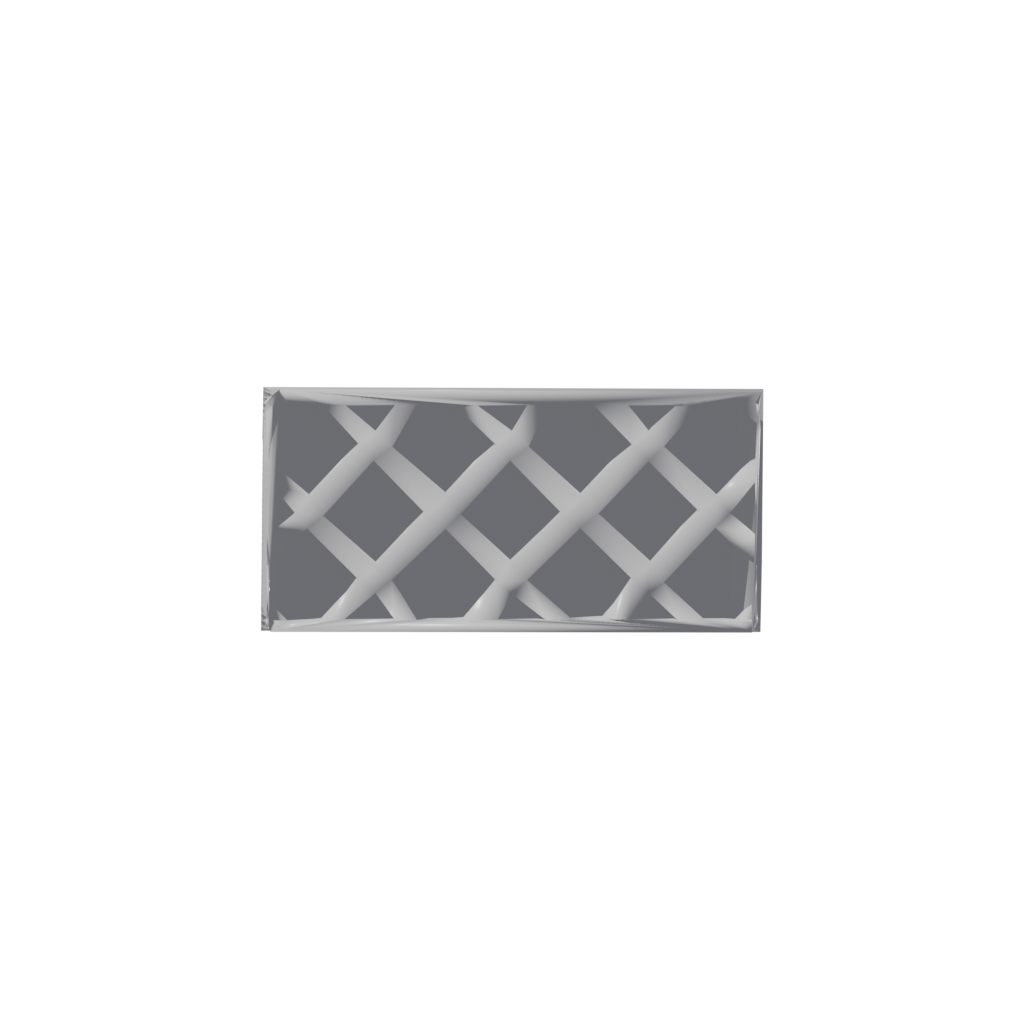
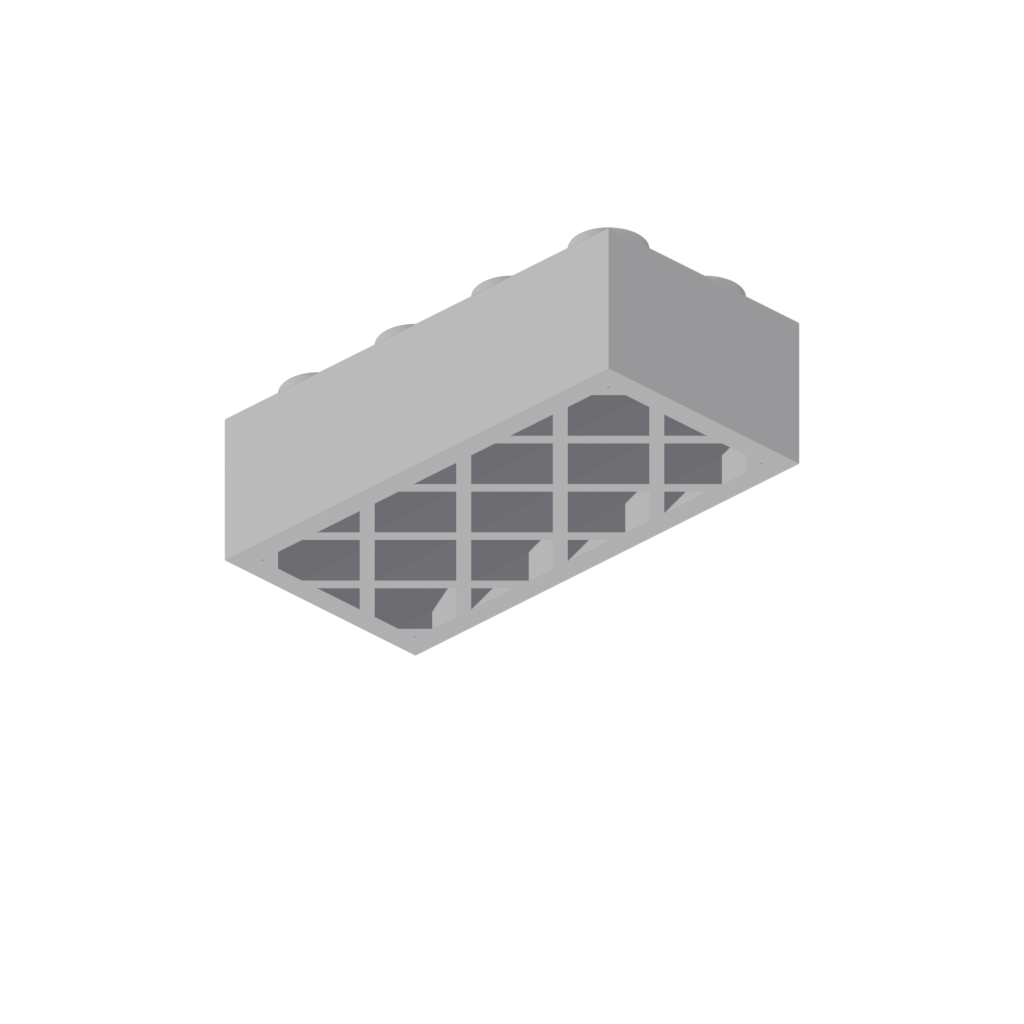
[C] Fix render shading to flat, add generate_readme.py script
Switched render_preview.py from smooth to flat shading for crisp CAD
facets. Created generate_readme.py to regenerate all README images in
one command. Regenerated all 7 docs/images/ with flat shading.

Changed region(s): [[0.2188, 0.2188, 0.7812, 0.6562]]

diff --git a/generate_readme.py b/generate_readme.py
@@ -1,0 +1,144 @@
+"""
+Generate README images — renders all brick configs used in README.md.
+
+Command, specific. For each config: builds STL via parametric.run(),
+then calls render.sh to produce diagnostic PNGs, and copies the
+selected angle to docs/images/.
+
+Usage:
+    uv run generate_readme.py
+"""
+
+import json
+import os
+import shutil
+import subprocess
+import sys
+import tempfile
+
+script_dir = os.path.dirname(os.path.abspath(__file__))
+sys.path.insert(0, os.path.join(script_dir, "models", "bricks"))
+
+DOCS_DIR = os.path.join(script_dir, "docs", "images")
+RENDER_DIR = os.path.join(script_dir, "renders")
+RENDER_SCRIPT = os.path.join(script_dir, "render.sh")
+
+# Each entry: (output_name, params_dict, angle)
+# angle = name from CAMERA_ANGLES in render_preview.py
+README_CONFIGS = [
+    ("clara_2x4", {"studs_x": 2, "studs_y": 4}, "iso_fr"),
+    ("clara_2x4_bottom", {"studs_x": 2, "studs_y": 4}, "iso_fr_lo"),
+    ("lego_2x4", {
+        "studs_x": 2, "studs_y": 4, "clutch_type": "TUBE",
+        "STUD_TEXT": "LEGO", "STUD_HEIGHT": 1.8,
+        "enable_corner_radius": False, "enable_wall_taper": False,
+        "enable_stud_taper": False,
+    }, "iso_fr"),
+    ("lego_2x4_bottom", {
+        "studs_x": 2, "studs_y": 4, "clutch_type": "TUBE",
+        "STUD_TEXT": "LEGO", "STUD_HEIGHT": 1.8,
+        "enable_corner_radius": False, "enable_wall_taper": False,
+        "enable_stud_taper": False,
+    }, "iso_fr_lo"),
+    ("clara_slope", {
+        "studs_x": 2, "studs_y": 4,
+        "enable_slope": True, "slope_plus_y": 3,
+    }, "iso_fr"),
+    ("lego_slope", {
+        "studs_x": 2, "studs_y": 4, "clutch_type": "TUBE",
+        "STUD_TEXT": "LEGO", "STUD_HEIGHT": 1.8,
+        "enable_corner_radius": False, "enable_wall_taper": False,
+        "enable_stud_taper": False,
+        "enable_slope": True, "slope_plus_y": 3,
+    }, "iso_fr"),
+    ("lego_2x2_plate", {
+        "studs_x": 2, "studs_y": 2, "clutch_type": "TUBE",
+        "STUD_TEXT": "LEGO", "STUD_HEIGHT": 1.8, "BRICK_HEIGHT": 3.2,
+        "enable_corner_radius": False, "enable_wall_taper": False,
+        "enable_stud_taper": False,
+    }, "iso_fr"),
+]
+
+
+def find_blender():
+    """
+    Query, specific. Locate Blender executable.
+
+    Returns:
+        str: Path to Blender, or None if not found.
+
+    Examples:
+        >>> # find_blender() -> "/Applications/Blender.app/Contents/MacOS/Blender"
+    """
+    mac_path = "/Applications/Blender.app/Contents/MacOS/Blender"
+    if os.path.isfile(mac_path):
+        return mac_path
+    blender = shutil.which("blender")
+    return blender
+
+
+def main():
+    """Command, specific. Build and render all README images."""
+    blender = find_blender()
+    if not blender:
+        print("ERROR: Blender not found")
+        sys.exit(1)
+
+    os.makedirs(DOCS_DIR, exist_ok=True)
+    os.makedirs(RENDER_DIR, exist_ok=True)
+
+    import parametric
+
+    passed = 0
+    failed = 0
+    stl_path = os.path.join(tempfile.gettempdir(), "_readme_render.stl")
+    render_script = os.path.join(script_dir, "render_preview.py")
+
+    for name, params, angle in README_CONFIGS:
+        print(f"\n{'='*60}")
+        print(f"Building {name}...")
+
+        # Fresh module state
+        for mod_name in list(sys.modules):
+            if mod_name in ("parametric", "brick_lib", "common", "panel_def",
+                            "parametric_base", "panel_common"):
+                del sys.modules[mod_name]
+        import parametric
+
+        info = parametric.run(params, stl_path)
+        print(f"  Built: {info['faces']} faces, {info['build']:.2f}s")
+
+        # Render via Blender headless
+        print(f"  Rendering {name}...")
+        result = subprocess.run(
+            [blender, "--background", "--factory-startup",
+             "--python", render_script, "--", stl_path, RENDER_DIR],
+            capture_output=True, text=True,
+        )
+        if result.returncode != 0:
+            print(f"  FAIL render {name}: {result.stderr[-500:]}")
+            failed += 1
+            continue
+
+        # Copy selected angle to docs/images/
+        src = os.path.join(RENDER_DIR, f"{angle}.png")
+        dst = os.path.join(DOCS_DIR, f"{name}.png")
+        if not os.path.isfile(src):
+            print(f"  FAIL: {src} not found")
+            failed += 1
+            continue
+
+        shutil.copy2(src, dst)
+        print(f"  Saved: {dst}")
+        passed += 1
+
+    print(f"\n{'='*60}")
+    print(f"{passed} rendered, {failed} failed, {len(README_CONFIGS)} total")
+    print(f"Images in: {DOCS_DIR}")
+
+    if failed:
+        sys.exit(1)
+
+
+if __name__ == "__main__":
+    main()

diff --git a/render_preview.py b/render_preview.py
@@ -219,16 +219,8 @@ def main():
 
     model_obj = bpy.context.selected_objects[0]
 
-    # Auto-smooth shading — reveals surface detail from STL facets
-    bpy.ops.object.shade_smooth()
-    # Auto smooth by angle: faces within 30° of each other get smooth normals,
-    # sharp edges (studs, walls) stay crisp
-    if hasattr(model_obj.data, "use_auto_smooth"):
-        model_obj.data.use_auto_smooth = True
-        model_obj.data.auto_smooth_angle = math.radians(30)
-    else:
-        # Blender 4.1+ uses modifier-based auto smooth
-        bpy.ops.object.modifier_add(type="SMOOTH")
+    # Flat shading — crisp CAD facets, no smooth interpolation
+    bpy.ops.object.shade_flat()
 
     # Apply plastic material
     mat = create_plastic_material()

diff --git a/README.md b/README.md
@@ -165,11 +165,14 @@ Clara adds a lattice step: 2D rectangles at ±45° via `Locations([Pos * Rot])`,
 ## Tests
 
 ```bash
-# Run lattice geometry tests
+# Integration tests (20 configs: all clutch types, shapes, slopes, combos)
+uv run models/bricks/tests/test_integration.py
+
+# Lattice geometry tests (7 pure math tests)
 uv run models/bricks/tests/test_lattice.py
 
-# Build all brick configurations (18 configs)
-uv run scratchpad.py
+# Regenerate README images
+uv run generate_readme.py
 ```
 
 The lattice tests verify: tangent contact with studs, no overlap, diamond fit, symmetry, wall connectivity, and correct strut count across brick sizes from 1x1 to 8x16.
